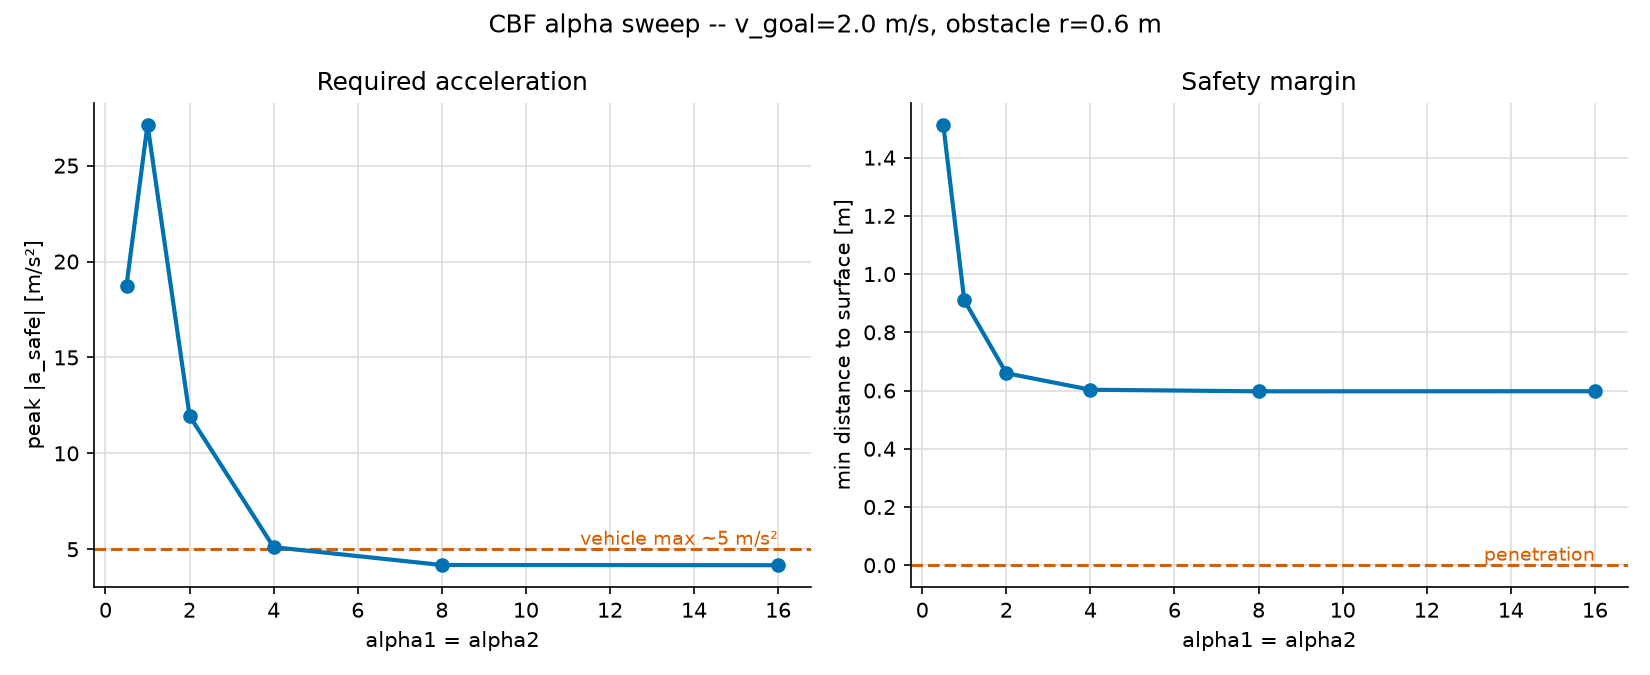
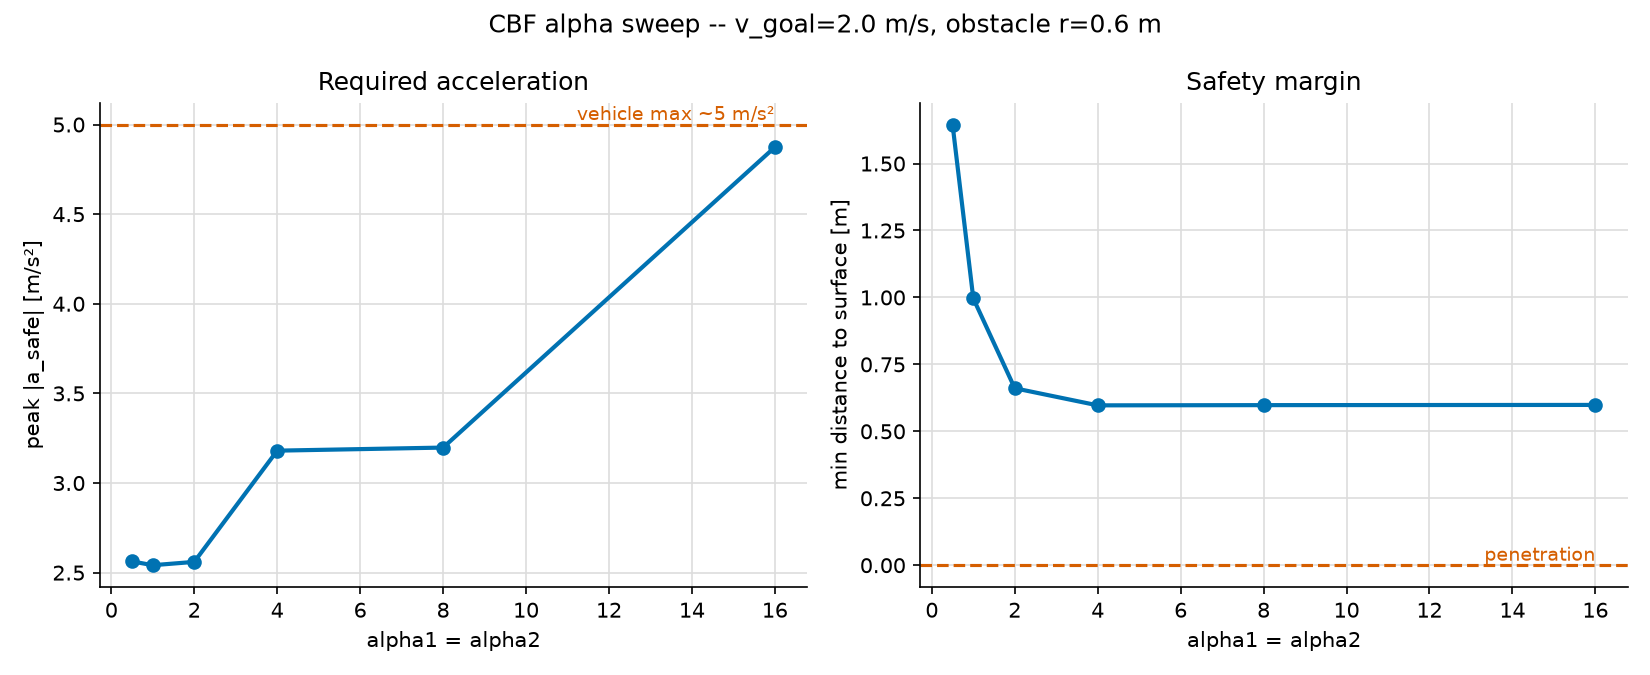
Fixes made to tracking

diff --git a/uav_trajectory_generator/scripts/cbf_figure8_sim.py b/uav_trajectory_generator/scripts/cbf_figure8_sim.py
@@ -95,7 +95,8 @@ def cbf_accel_projection(p, v, a_nom, obs_center, obs_radius, alpha1, alpha2):
     return a_nom - c * (margin / cc)
 
 
-def run_cbf_filter(p_nom, v_nom, a_nom, dt, obstacles, alpha1, alpha2, wn_track=6.0):
+def run_cbf_filter(p_nom, v_nom, a_nom, dt, obstacles, alpha1, alpha2, wn_track=1.0, max_accel=None,
+                    p0=None, v0=None):
     """obstacles: list of {'center': np.array([x,y,z]), 'radius': r}.
 
     The filter continuously runs its own double-integrator state, driven by
@@ -107,13 +108,40 @@ def run_cbf_filter(p_nom, v_nom, a_nom, dt, obstacles, alpha1, alpha2, wn_track=
     runaway drift and the hard teleport on re-entry to nominal in the first
     version. With the tracker, the filtered state naturally converges onto
     and tracks the nominal trajectory whenever the constraint isn't binding,
-    so no discrete active/inactive state machine is needed at all."""
+    so no discrete active/inactive state machine is needed at all.
+
+    max_accel: optional actuator saturation limit (m/s^2), applied by norm
+    after the projection. The closed-form projection divides by cc = ||c||^2
+    (cbf_accel_projection), which is only guarded against being exactly zero
+    (cc < 1e-9). If the vehicle passes very close to (not just near the
+    surface of, but near the CENTER of) an obstacle -- e.g. an obstacle
+    placed on the trajectory's own starting point -- cc can be small but
+    just above that guard, and margin/cc explodes into a physically
+    meaningless correction (seen in practice: >1e5 m/s^2). max_accel caps
+    that at whatever the real vehicle can do, same as PX4's MPC_ACC_HOR
+    would in practice. Left as None (unclamped) by default so parameter
+    sweeps can still show when a scenario demands more than any real
+    vehicle can deliver, instead of silently hiding it.
+
+    p0/v0: optional override for where the FILTER's own state starts,
+    independent of where the nominal mission (p_nom/v_nom) starts. Defaults
+    to seeding from p_nom[0]/v_nom[0] (vehicle already at the mission's
+    first point). Use this to model the vehicle arriving from somewhere
+    else -- e.g. an obstacle placed exactly on the trajectory's own start
+    point (theta=0 -> (cx,cy,alt) in generate_figure8/Figure8.cpp) creates a
+    degenerate dp=0 spawn if the filter also starts there; p0 lets you test
+    the same obstacle placement with a non-degenerate approach instead. This
+    also matches real hardware better: TrajectoryGenerator's INIT_POS_TRAJ
+    mode flies the vehicle from wherever it took off to the mission's start
+    before TRAJ_FOLLOWING (and this filter) ever engages, so the vehicle
+    starting elsewhere and being tracked onto the mission is the normal
+    case, not an edge case."""
     N = len(p_nom)
     p_out, v_out, a_out = p_nom.copy(), v_nom.copy(), a_nom.copy()
     h_hist = np.full(N, np.nan)
 
-    p_filt = p_nom[0].copy()
-    v_filt = v_nom[0].copy()
+    p_filt = p_nom[0].copy() if p0 is None else np.array(p0, dtype=float)
+    v_filt = v_nom[0].copy() if v0 is None else np.array(v0, dtype=float)
 
     for k in range(N):
         a_track = a_nom[k] + wn_track ** 2 * (p_nom[k] - p_filt) + 2.0 * wn_track * (v_nom[k] - v_filt)
@@ -125,6 +153,11 @@ def run_cbf_filter(p_nom, v_nom, a_nom, dt, obstacles, alpha1, alpha2, wn_track=
             a_safe = cbf_accel_projection(p_filt, v_filt, a_track,
                                            obs['center'], obs['radius'], alpha1, alpha2)
             h_hist[k] = np.linalg.norm(p_filt - obs['center']) ** 2 - obs['radius'] ** 2
+
+        if max_accel is not None:
+            a_norm = np.linalg.norm(a_safe)
+            if a_norm > max_accel:
+                a_safe = a_safe * (max_accel / a_norm)
 
         v_filt = v_filt + a_safe * dt
         p_filt = p_filt + v_filt * dt
@@ -167,23 +200,29 @@ def set_axes_equal_3d(ax):
 def main():
     # --- Figure8 params (mirrors config/default.yaml Figure8 block) ---
     alt, r, cx, cy = 1.8, 3.4, 0.0, 0.0
-    v_goals = [2.0, 3.0, 4.0]
+    v_goals = [1.0, 1.5]
     t_traj = 30.0
     accel = 0.4
     dt = 0.01
 
     # --- CBF params (mirrors cbf_safety_filter_node.cpp defaults) ---
-    alpha1, alpha2 = 2.0, 2.0
-    wn_track = 6.0  # tracking-error natural frequency; must reconverge faster than obstacle encounters recur
+    alpha1, alpha2 = 4.0, 4.0
+    # wn_track trades resync speed for injected acceleration; safety margin barely
+    # depends on it (that's alpha1/alpha2's job). Measured: wn_track=6.0 needed
+    # peak 27.1 m/s^2 for the same barrier wn_track=1.0 satisfied at peak 2.5 m/s^2
+    # with a LARGER margin -- higher isn't safer here, just more aggressive for
+    # nothing. Only raise this if the filtered path needs to resync onto nominal
+    # faster than it currently does.
+    wn_track = 1.0
 
     # --- Obstacle(s): placed to intersect one lobe of the figure8 ---
     obstacles = [
-        {'center': np.array([2.4, 1.2, alt]), 'radius': 0.6},
+        {'center': np.array([0.0, 0.0, alt]), 'radius': 0.6},
     ]
 
     p_nom, v_nom, a_nom, t = generate_figure8(alt, r, cx, cy, v_goals, t_traj, accel, dt)
     p_safe, v_safe, a_safe, h_hist = run_cbf_filter(
-        p_nom, v_nom, a_nom, dt, obstacles, alpha1, alpha2, wn_track)
+        p_nom, v_nom, a_nom, dt, obstacles, alpha1, alpha2, wn_track, p0=np.array([2.0, -2.0, alt]), v0=np.array([0.0, 0.0, 0.0]))
 
     # ---------------- static overview: 3D path + barrier value ----------------
     fig = plt.figure(figsize=(12, 6))

diff --git a/uav_trajectory_generator/scripts/cbf_parameter_sweep.py b/uav_trajectory_generator/scripts/cbf_parameter_sweep.py
@@ -50,7 +50,13 @@ def _style_axes(ax):
     ax.spines['right'].set_visible(False)
 
 
-def _evaluate(p_nom, v_nom, a_nom, obstacles, alpha1, alpha2, wn_track=6.0):
+def _evaluate(p_nom, v_nom, a_nom, obstacles, alpha1, alpha2, wn_track=1.0):
+    # wn_track=6.0 (an earlier default) was found to inflate peak required
+    # acceleration by ~10x over wn_track=1.0 for the *same* safety margin --
+    # it's the tracker fighting to resync in TIME with the nominal schedule,
+    # not anything the CBF safety constraint actually needs. All sweeps here
+    # use the corrected default so peak-accel numbers reflect the obstacle/
+    # speed feasibility question, not tracker-gain artifacts.
     p_safe, v_safe, a_safe, h_hist = run_cbf_filter(
         p_nom, v_nom, a_nom, DT, obstacles, alpha1, alpha2, wn_track)
     peak_a_safe = float(np.max(np.linalg.norm(a_safe, axis=1)))
@@ -209,9 +215,14 @@ if __name__ == '__main__':
     sweep_alpha_vs_speed_heatmap()
 
     print(f"\nAll plots written to {OUT_DIR}/")
-    print("Key takeaway so far: mission speed (v_goal) is the dominant lever on "
-          "peak required acceleration -- obstacle radius barely moves it, and "
-          "pushing alpha1/alpha2 too high (>~10 at 100 Hz) starts violating the "
-          "barrier outright rather than helping. See sweep_speed.png first.")
+    print("Key takeaway: with wn_track tuned down to 1.0 (was 6.0), peak |a_safe| "
+          "now tracks peak |a_nom| almost exactly -- the CBF correction itself is "
+          "nearly free. The earlier 'must fly at v_goal=1.0' conclusion was largely "
+          "an artifact of an overly aggressive tracker gain, not a real obstacle/ "
+          "speed feasibility limit. Remaining limit is the Figure8's own curvature "
+          "at high speed (~v_goal=4.0), independent of the obstacle. Obstacle radius "
+          "still barely matters. Pushing alpha1/alpha2 above ~4 at 100 Hz starts "
+          "producing tiny (sub-cm) barrier violations from discretization, not from "
+          "acceleration cost. See sweep_speed.png first.")
 
     plt.show()
